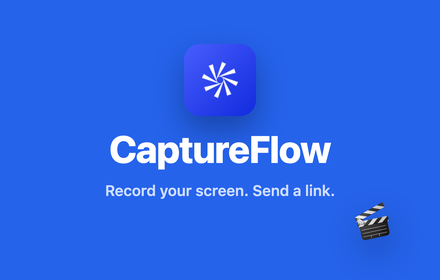
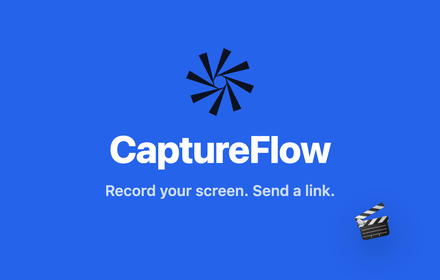
chore(extension): bare dark glyph on the small promo tile
The blue squircle sat on a blue tile, so the mark read as a floating chip.
Draws the glyph on its own instead, in the same near-black the headline sits
against. Path is the one apps/web/components/brand-mark.tsx uses; keep them in
step if the shape ever changes.

Changed region(s): [[0.3841, 0.1429, 0.5909, 0.4857]]

diff --git a/scripts/gen-store-assets.py b/scripts/gen-store-assets.py
@@ -111,6 +111,27 @@ def mark(x: int, y: int, w: int, z: int = 6) -> str:
     )
 
 
+# The bare glyph, no blue squircle behind it. Path is the same one
+# apps/web/components/brand-mark.tsx draws, which traces the shape inside the
+# app icon; keep the two in step.
+GLYPH_PATH = (
+    "M86.24,63.54l4.19-9.08L55.86,43.16l0,0v0L52.19,42l33-8-3.46-9.38L49.31,41l-.05,0,0,0"
+    "-3.44,1.75,17.68-29L54.46,9.57,43.16,44.14l0,0h0L42,47.81l-8-33-9.38,3.46L41,50.69l0,"
+    ".05,0,0,1.75,3.44-29-17.68L9.57,45.54l34.57,11.3,0,0v0L47.81,58l-33,8,3.46,9.38L50.69,"
+    "59l.05,0,0,0,3.44-1.75-17.68,29,9.08,4.19,11.3-34.57,0,0h0L58,52.19l8,33,9.38-3.46L59,"
+    "49.31l0-.05,0,0-1.75-3.44ZM57.81,51.22l-3.15,5.16-5.88,1.43-5.16-3.15-1.43-5.88,3.15-"
+    "5.16,5.88-1.43,5.16,3.15Z"
+)
+
+
+def glyph(x: int, y: int, size: int, fill: str = "#0b1220", z: int = 6) -> str:
+    return (
+        f"<svg viewBox='0 0 100 100' width='{size}' height='{size}' fill='{fill}' "
+        f"style='position:absolute;left:{x}px;top:{y}px;z-index:{z}'>"
+        f"<path d='{GLYPH_PATH}'/></svg>"
+    )
+
+
 def build(s: dict, w: int, h: int) -> str:
     css = CSS.replace("__BG__", BLUE)
     p = [
@@ -185,7 +206,7 @@ def small_tile() -> dict:
         "sub": "Record your screen. Send a link.",
         "sub_size": 15,
         "sub_at": 180,
-        "layers": [mark(184, 44, 72)],
+        "layers": [glyph(178, 40, 84)],
         "emoji": [("🎬", 356, 206, 34, -12)],
     }
 
